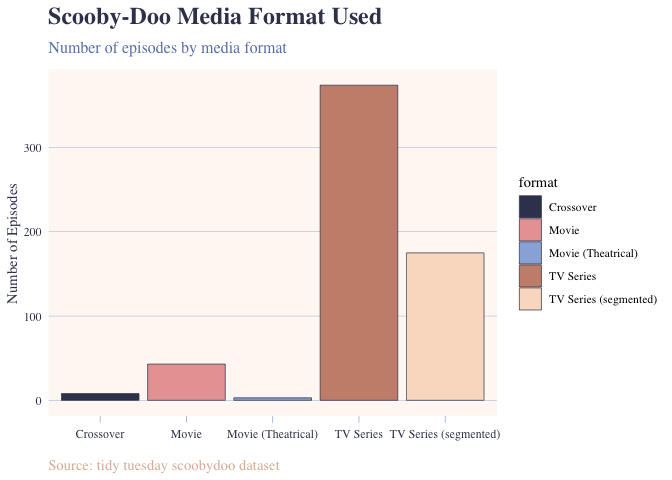
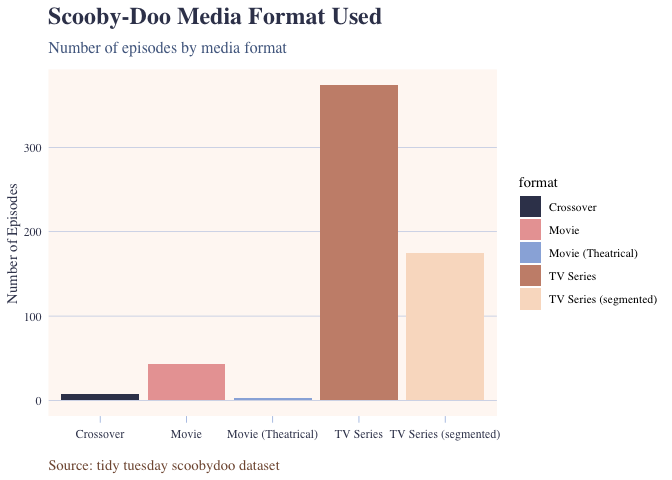
finalized?

diff --git a/README.md b/README.md
@@ -35,15 +35,15 @@ and organize the data, unmasked helps to uncover patterns in the data
 and clearly communicate the findings.
 
 Whether you’re exploring a new data set, completing a class assignment,
-or creating a polished vizualization, unmasked offers you the
+or creating a polished visualization, unmasked offers you the
 opportunity to do more with your data.
 
 ## Why use unmasked?
 
 Summarizing observations, calculating percentages, and formatting plots
-often become a repetive and time consuming process. With unmasked, this
-process is made much simpler by bringing together helpful functions and
-a custom theme.
+often become a repetitive and time consuming process. With unmasked,
+this process is made much simpler by bringing together helpful functions
+and a custom theme.
 
 - **Simplify data exploration**: Work with a data set using simple data
   moves to manipulate and explore the data.
@@ -122,15 +122,15 @@ percent_by_group(scoobydoo, network)
 #> 11 Warner Home Video       39   6.47
 ```
 
-We used the function to explore how episodes are distributed across
-different networks, since both the count and percentage are provided for
-each network.
+We used the function to provide both the count and percentage for each
+network, which allows us to explore how episodes are distributed across
+different networks.
 
 ### theme_trap()
 
 The `theme_trap()` function provides a theme with a simple, clean,
 consistent layout, with a soft pastel-like aesthetic. It focuses on
-blues, using navy for next, a lighter blue for graph lines and
+blues, using navy for text, a lighter blue for graph lines and
 highlights, as well as a complementary light peach background to tie the
 graph together. These colors come from the brand, which uses a similar
 color palette focused on blues but also includes peaches and browns
@@ -154,10 +154,7 @@ tuesdata <- tidytuesdayR::tt_load(2021, week = 29)
 scoobydoo <- tuesdata$scoobydoo
 
 ggplot(scoobydoo, aes(x = format, fill = format)) +
-  geom_bar(
-    color = "#3A405A",
-    linewidth = 0.25
-  ) +
+  geom_bar() +
   scale_fill_manual(
     values = c(
       "#3A405A",
@@ -182,6 +179,21 @@ ggplot(scoobydoo, aes(x = format, fill = format)) +
 Applying the theme function gives a consistent and clean visual layout
 that avoids non-data-ink without all the additional manual coding.
 
+#### The brand
+
+I wanted to closely tie together my brand and the theme function I chose
+to create. The brand I created first, spending way too long deciding on
+a color palette. I’ve always loved blue, so the main color of the brand
+and the theme are blue, darker blues for the text, and light blues for
+some accent colors. I went through many complementary color options,
+finding that peaches, creams, and browns looked quite nice. I used the
+majority of these as accent colors, especially the lighter color options
+as they’d be hard to read if used as the color for small font. The fonts
+are both a simple, clean looking serif font, which I then utilized more
+within the theme as axis labels and sub headers and captions. For my
+brand, I chose to link my LinkedIn, since this is such an emerging field
+and place to find work and connect with people.
+
 ## Exploring the Scooby-Doo dataset
 
 The unmasked package can be used with dplyr to investigate different
@@ -193,8 +205,8 @@ Using this dataset, you can explore questions such as:
 - Which episodes have the longest run times?
 - How are episodes distributed across networks and media formats?
 
-For example, with scoobydoo data set from Tidy Tuesday, you can filter
-the episodes featuring real monsters:
+For example, with the scoobydoo data set from Tidy Tuesday, you can
+filter the episodes featuring real monsters:
 
 ``` r
 library(dplyr)
@@ -203,7 +215,7 @@ scooby_filtered <- scoobydoo %>%
   filter(monster_real == TRUE)
 ```
 
-Where we now have a filtered data set which only includes episodes where
+Where we now have a filtered data set that only includes episodes where
 the monster was identified as real.
 
 We can also group episodes by whether or not the monster was real, and
@@ -238,7 +250,7 @@ You can install these with:
 For a more detailed outline of the entire package, visit the vignette,
 which goes through every type of data move, as well as in depth
 explanations of both the helper and theme functions using the scoobydoo
-dataset.
+dataset for examples.
 
 ## Contributing
 
